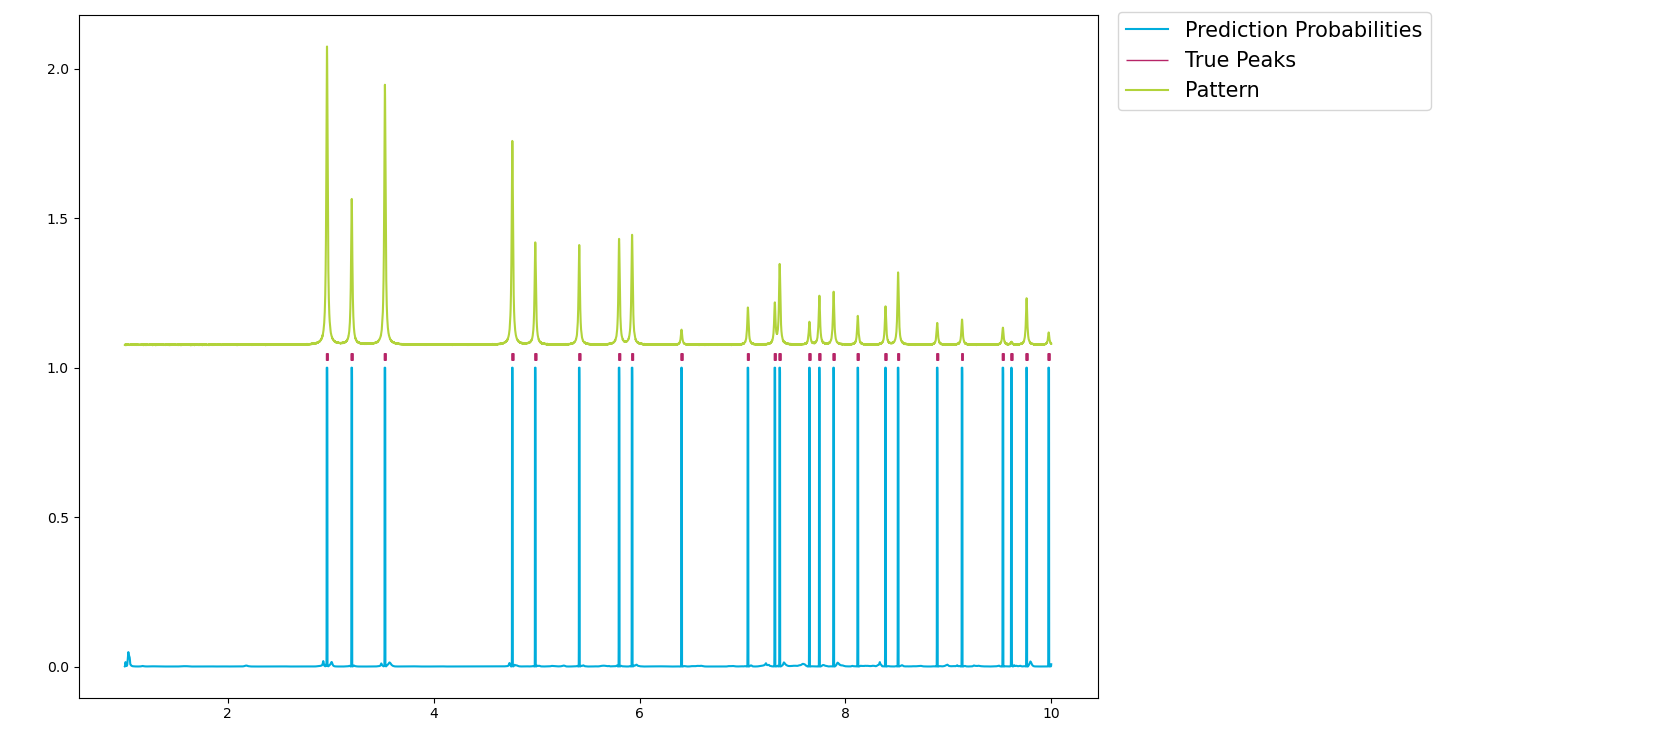
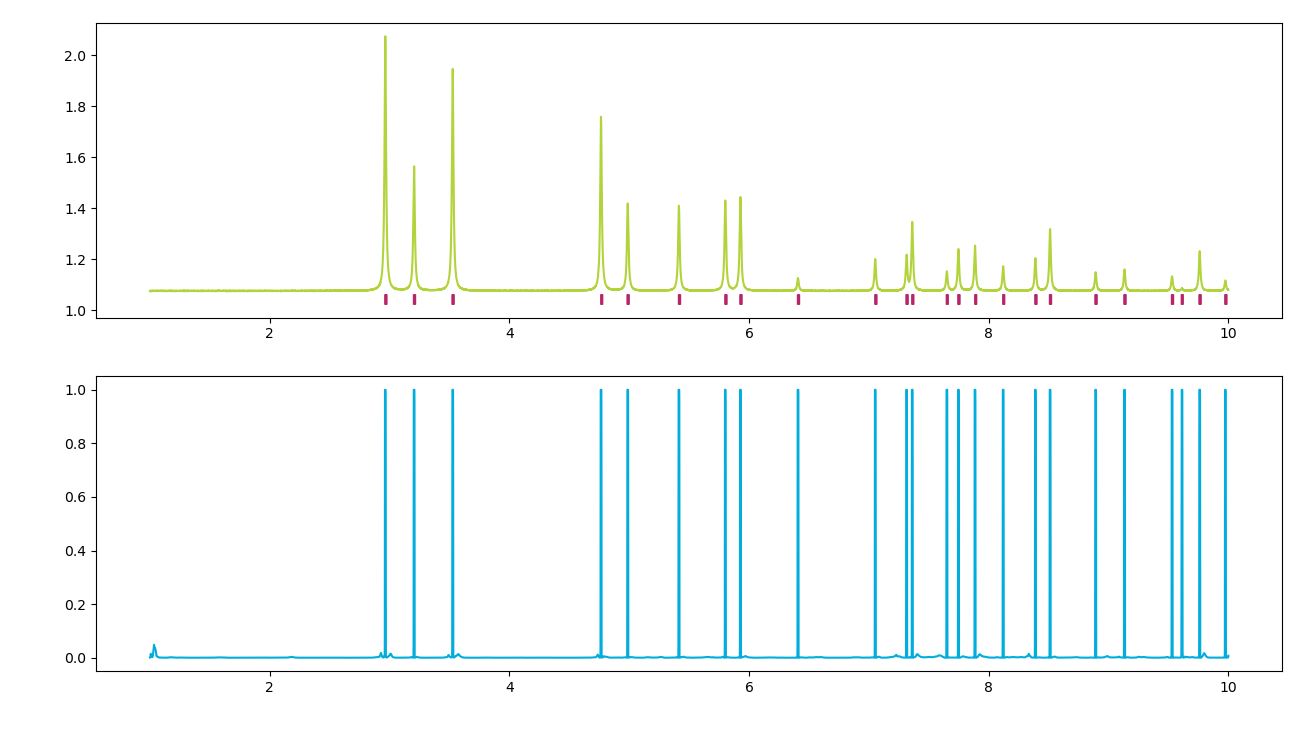
Updated figures.

diff --git a/RNN_files/eval.py b/RNN_files/eval.py
@@ -6,7 +6,7 @@ import xarray as xr
 from sklearn.metrics import f1_score
 import matplotlib.pyplot as plt
 
-file = '/home/shasko/Desktop/internship_2025/evaluation_set/test_1_patterns_PSn_tetragonal_COD_peakslabeled_noisy.nc'
+file = '/home/shasko/Desktop/internship_2025/evaluation_set/test_1_patterns_Cu_cubic_COD_peakslabeled_noisy.nc'
 
 # List comprehension to get all path names
 ds = xr.open_dataset(file, engine='netcdf4')
@@ -72,14 +72,13 @@ binary_ones = binary_sequence[idx_ones]
 idx = 0
 
 def vis():
-    plt.figure(figsize=(10,8))
-    plt.plot(x_new, predictions_new[idx], color='#00ADDC', label='Prediction Probabilities')
-
-    plt.vlines(x_new_ones, 1.025, 1.050, label="True Peaks", linewidth=1.0, color='#B72467')
+    fig, axs = plt.subplots(2,1)
+    axs[1].plot(x_new, predictions_new[idx], color='#00ADDC', label='Prediction Probabilities')
+    axs[0].vlines(x_new_ones, 1.025, 1.065, label="True Peaks", linewidth=1.0, color='#B72467')
 
     # plt.plot(x_new, test_binary_reshaped[idx] * 0.05 + 1, color='green', label='True Peaks')
-    plt.plot(x_new, gaussians_new_reshaped[idx] + 1.075, color='#B2D33B', label='Pattern')
-    plt.legend(bbox_to_anchor=(1.01, 1.02), loc='upper left', fontsize=15)
+    axs[0].plot(x_new, gaussians_new_reshaped[idx] + 1.075, color='#B2D33B', label='Pattern')
+
     plt.tight_layout()
     # plt.savefig('/nsls2/users/shasko/Repos/internship_2025/saved_figures/gaussian_jul2_idx12')
     plt.show()
